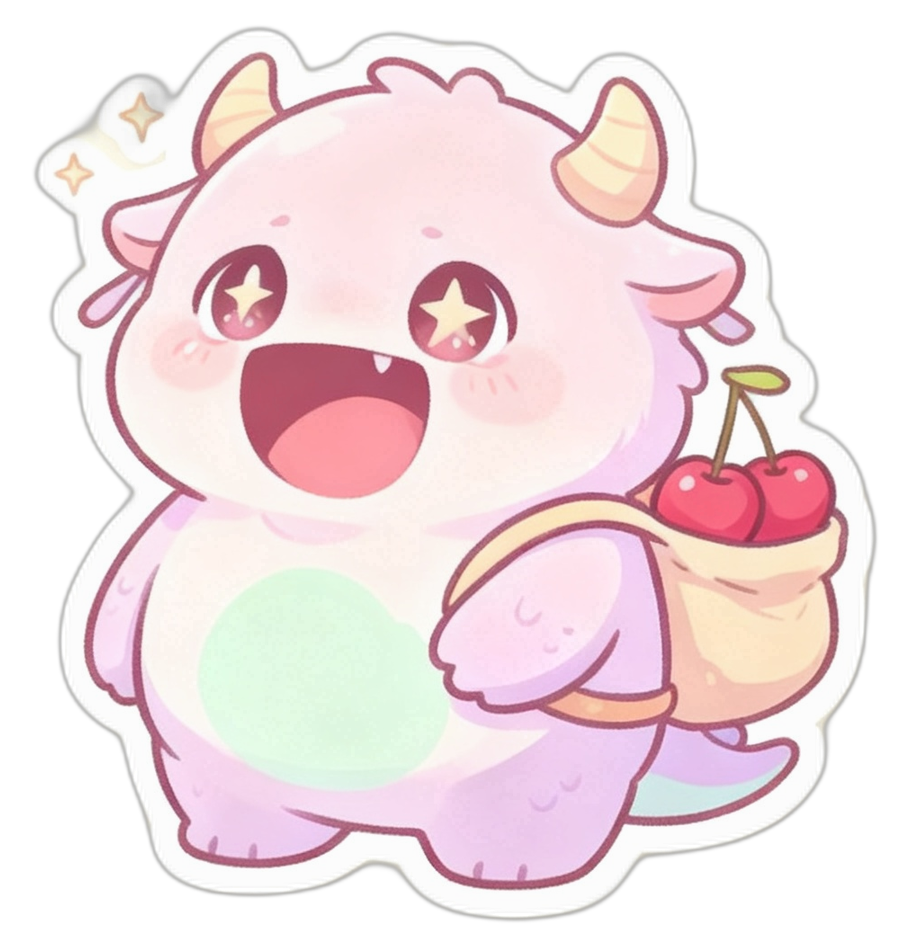
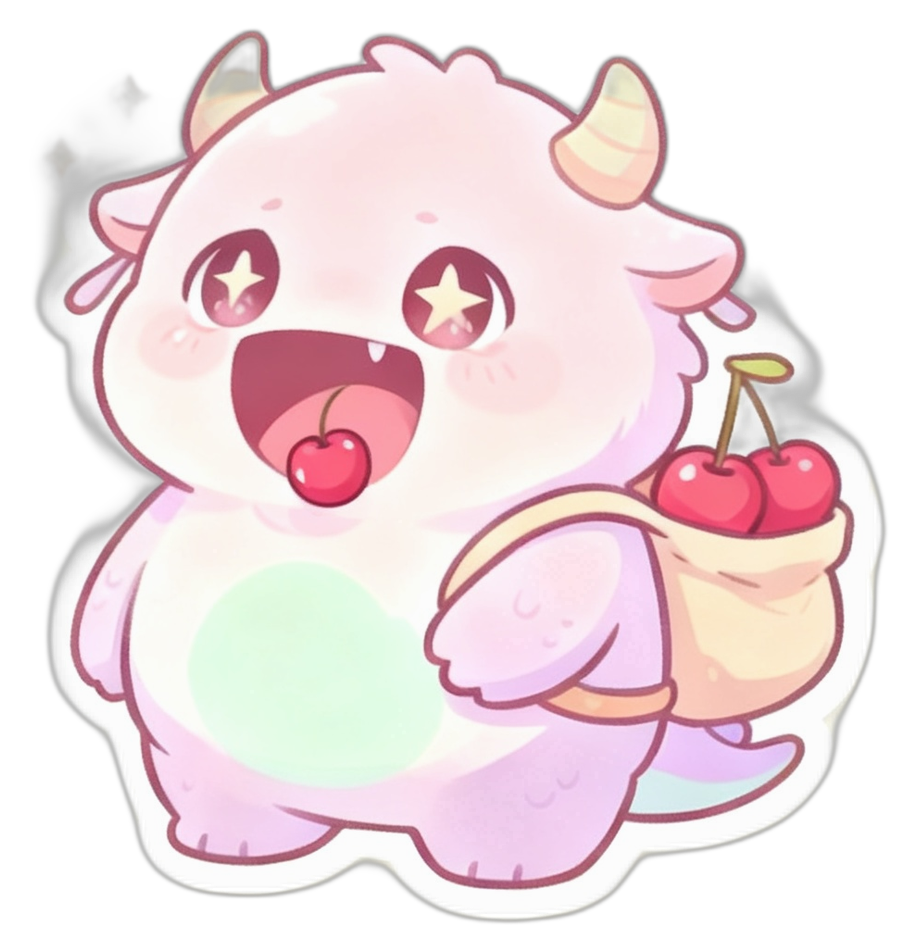
update pet assets, audio session controller, and related tests and documentation

Changed region(s): [[0.0307, 0.0306, 0.9835, 0.9789], [0.5225, 0.7954, 0.5532, 0.8259], [0.3074, 0.8259, 0.3381, 0.8565]]

diff --git a/design/ideas.html b/design/ideas.html
@@ -2245,7 +2245,7 @@
                 </div>
                 <h2 class="idea-title">用户宠物「背篓樱桃兽」：形象定稿与四态表情</h2>
               </div>
-              <span class="badge-status status-evaluating">形象已定 · 四态就绪 · 待命名</span>
+              <span class="badge-status status-evaluating">形象与樱桃规则已定 · 待命名</span>
             </div>
 
             <div class="tags-container">
@@ -2270,22 +2270,39 @@
                 • <strong>透明底成品</strong>：<code>design/ui/img/pet/pet_berry_{happy,sleepy,excited,sad}.png</code>，统一归一化为 <code>911×948</code>（角色等高 900、底边距 24、水平居中），所以四个状态原地切换时不会变大变小、也不会上下跳。抠图走既有流水线 <code>tools/pet_assets/cutout.py</code>（rembg u2net）。
               </div>
 
+              <div class="section-title">樱桃就是它的口粮，也是今日进度</div>
+              <div class="principle-box">
+                设定是<strong>它一天吃两个樱桃</strong>，于是数字自己闭环了：<br/>
+                • 学完那天攒到 <strong>3 颗</strong> → 它当天吃掉 2 颗 → <strong>第二天进来正好剩 1 颗</strong>；<br/>
+                • 开始学习 → <strong>2 颗</strong>；学完 → <strong>3 颗</strong>；<br/>
+                • 哪天断了就吃光：背篓空着、里面只剩它自己拣的几片蔫巴巴的菜叶，脸上也灰扑扑的（像哭了好几天没洗脸）。<br/>
+                这样背篓不需要任何数字标签，用户扫一眼就知道自己今天走到哪一步了。<br/>
+                <strong>待确认</strong>：断更之后重新开始学习，背篓是从 1 颗从头攒，还是按断更天数扣减——目前原型按「回到 1 颗」处理。<br/><br/>
+                <strong>实测边界：「袋里正好三颗」这个模型画不出来</strong>（2026-10-16，连试五轮）：<br/>
+                ① 只说「多放一颗」→ 第三颗被画到袋子外面；<br/>
+                ② 说「袋子被撑鼓、袋口张更开」→ 模型把袋子整体放大，角色比例与构图一起崩掉；<br/>
+                ③ 强调「袋子尺寸形状一律不变、只多放一颗」→ 它仍然只画两颗；<br/>
+                ④ 改用像素合成（把两颗里的右边那颗抠出来复制一颗贴上去）→ rembg 在这张图上抠不干净，樱桃与袋口交界处带出方形残影；<br/>
+                ⑤ 换「袋口最空」的那张（1 颗的打瞌睡版）当参考、同时改表情与数量 → 仍然两颗，而且朝向还漂了。<br/>
+                结论：<strong>这个模型在「袋口」这个构图上稳定输出两颗</strong>，加不进去第三颗。最终改用<strong>袋里 2 颗 + 嘴边 1 颗（它正准备吃掉这一颗）</strong>：既一眼看得出「多了一颗」（132px 真实尺寸下也看得见），又把「它一天吃两个」的设定演了出来。若将来仍要「袋里三颗」，可行路径是换一家生图模型或手工修图。
+              </div>
+
               <div class="section-title">四态表情（随今日学习状态切换）</div>
               <div class="feature-grid">
                 <div class="feature-item">
-                  <strong>还没开始 → 打瞌睡</strong>
+                  <strong>还没开始 → 打瞌睡（背篓 1 颗樱桃）</strong>
                   <p>站着闭眼、头顶飘几个半透明气泡。文案「它还在打瞌睡 / 今天还没开始，让它再眯一会儿」。</p>
                 </div>
                 <div class="feature-item">
-                  <strong>学习中 → 开心</strong>
+                  <strong>学习中 → 开心（背篓 2 颗樱桃）</strong>
                   <p>月牙笑眼加张嘴笑。文案「陪你把这两条走完 / 背篓里是今天攒下的樱桃」。</p>
                 </div>
                 <div class="feature-item">
-                  <strong>已完成 → 兴奋</strong>
+                  <strong>已完成 → 兴奋（袋里 2 颗 + 嘴边 1 颗）</strong>
                   <p>星星眼、大张嘴笑、头顶冒星星。文案「今天全走完了 / 背篓装满了，它高兴得冒星星」。</p>
                 </div>
                 <div class="feature-item">
-                  <strong>断更好几天 → 委屈</strong>
+                  <strong>断更好几天 → 委屈（背篓空了，换成蔫菜叶，脸上带脏）</strong>
                   <p>沿用原始形象那副委屈神情。文案「它等你好几天了 / 背篓里还是上次那两颗樱桃」。</p>
                 </div>
               </div>

diff --git a/design/ui/today_plan_track_scroll_preview.html b/design/ui/today_plan_track_scroll_preview.html
@@ -283,20 +283,21 @@
   .device-mockup[data-mood="excited"] .mood-excited,
   .device-mockup[data-mood="sad"] .mood-sad { opacity: 1; }
 
-  /* 文案跟着状态走：今天还没开始 / 正在学 / 学完 / 断更好几天 */
+  /* 文案跟着状态走。樱桃数量按「它一天吃两个」的设定：
+     学完攒到 3 颗 → 它吃掉 2 颗 → 第二天进来剩 1 颗；断了就吃光，只能拣菜叶。 */
   .mate-line b::after, .mate-line span::after { content: ""; }
 
   .device-mockup[data-mood="sleepy"] .mate-line b::after { content: "它还在打瞌睡"; }
-  .device-mockup[data-mood="sleepy"] .mate-line span::after { content: "今天还没开始，让它再眯一会儿"; }
+  .device-mockup[data-mood="sleepy"] .mate-line span::after { content: "背篓里只剩昨天那一颗樱桃"; }
 
   .device-mockup[data-mood="happy"] .mate-line b::after { content: "陪你把这两条走完"; }
-  .device-mockup[data-mood="happy"] .mate-line span::after { content: "背篓里是今天攒下的樱桃"; }
+  .device-mockup[data-mood="happy"] .mate-line span::after { content: "每往前走一点，就多攒一颗樱桃"; }
 
   .device-mockup[data-mood="excited"] .mate-line b::after { content: "今天全走完了"; }
-  .device-mockup[data-mood="excited"] .mate-line span::after { content: "背篓装满了，它高兴得冒星星"; }
+  .device-mockup[data-mood="excited"] .mate-line span::after { content: "攒够三颗，够它吃两天"; }
 
   .device-mockup[data-mood="sad"] .mate-line b::after { content: "它等你好几天了"; }
-  .device-mockup[data-mood="sad"] .mate-line span::after { content: "背篓里还是上次那两颗樱桃"; }
+  .device-mockup[data-mood="sad"] .mate-line span::after { content: "樱桃吃光了，只能拣点菜叶"; }
 
   .mate-line { padding-bottom: 32px; }
   .mate-line b { display: block; font-size: 13px; font-weight: 600; color: var(--ink); }
@@ -472,7 +473,8 @@
   <h3>宠物永远留位 + 底部毛玻璃渐隐</h3>
   <b>宠物区域是保留位</b>：固定 150 高，不参与滚动，无论轨道图多长都不会被挤掉。<b>轨道图在自己那块里滚</b>：它超出时底部盖一层 84 高的毛玻璃渐隐（模糊半径 7），提示下面还有内容；滚到底时这层自动淡出。<br><br>
   <h3>这里为什么是宠物、不再是借来的小馋怪</h3>
-  小馋怪是「从桥那头过来抢水果的对手」，摆在陪伴位是角色错位。这一个才是用户自己的宠物：粉紫底色、小牛角加垂耳、背着一个装着两颗樱桃的背篓、肚子上一块浅绿圆斑，表情有点委屈。素材沿用既有那条流水线：原始图 <code>assets/images/_unused/xiaochanguai_早期方向/xiaochanguai_背袋委屈_粉紫版.jpg</code>，经 <code>tools/pet_assets/cutout.py</code> 抠成透明底，四个状态分别是 <code>design/ui/img/pet/pet_berry_{happy,sleepy,excited,sad}.png</code>（统一归一化为 911×948：角色等高、底边对齐、水平居中，所以原地切换不会跳）。<br><br>
+  小馋怪是「从桥那头过来抢水果的对手」，摆在陪伴位是角色错位。这一个才是用户自己的宠物：粉紫底色、小牛角加垂耳、背着一个装着两颗樱桃的背篓、肚子上一块浅绿圆斑，表情随学习状态变。素材沿用既有那条流水线：原始图 <code>assets/images/_unused/xiaochanguai_早期方向/xiaochanguai_背袋委屈_粉紫版.jpg</code>，经 <code>tools/pet_assets/cutout.py</code> 抠成透明底，四个状态分别是 <code>design/ui/img/pet/pet_berry_{happy,sleepy,excited,sad}.png</code>（统一归一化为 917×950：角色等高 900、底边对齐、水平居中，所以原地切换不会跳）。<br/>
+  <b>背篓里的樱桃就是它的口粮，也是今日进度</b>：设定是它一天吃两个——学完那天攒到 3 颗，它吃掉 2 颗，第二天进来正好剩 1 颗；开始学变 2 颗，学完变 3 颗。哪天断了就吃光，背篓空着、只能拣几片蔫菜叶，脸上也灰扑扑的。<br><br>
   <h3>为什么模糊半径取 7</h3>
   按项目毛玻璃规范：12~16px 的正文，笔画只有 1~1.5px，模糊半径一旦到 14 以上就会被上千像素均化、直接蒸发成纯白。取 7 正好把节点文字晕成<b>朦胧的墨水色块</b>，既失去可读性、又还看得出"下面是节点"，这才像"还有内容"而不是"这里什么都没有"。<br><br>
   <h3>这一定位的字号说明了什么</h3>

diff --git a/app/test/sound_session_switch_test.dart b/app/test/sound_session_switch_test.dart
@@ -1,3 +1,5 @@
+import 'dart:io';
+
 import 'package:flutter/services.dart';
 import 'package:flutter_test/flutter_test.dart';
 import 'package:just_audio/just_audio.dart' as ja;
@@ -388,6 +390,32 @@ void main() {
 
       // word1 与 word2 已被代际取消，直接跳过不执行，只执行最新点击的 word3
       expect(executionOrder, ['word3']);
+    });
+  });
+
+  // ============================================================
+  // 会话激活卡死：原生 setActive 迟迟不返回时，绝不能让状态机永久瘫痪
+  // ============================================================
+  group('会话激活超时熔断（静态验证）', () {
+    test('控制器里不存在裸调 setActive 的地方', () async {
+      // 单测跑在 macOS 上，audio_session 插件在这条分支上直接 return true、根本不走原生通道，
+      // 所以"卡住的 setActive"在单测里造不出来，只能用源码闸门守住这条规矩：
+      // 这个原生调用被 await 时正持有会话锁与状态机锁，一旦没有超时，
+      // 之后每一次会话切换、播放、stopSession 都永久排队 ——
+      // 用户侧就是"模式切换中…"的浮层永远转圈、发音永久不出声，只能杀进程重进。
+      final source = await File('lib/util/study_audio_session_controller.dart').readAsString();
+
+      final bareSetActive =
+          RegExp(r'session\.setActive\([^)]*\)\s*;').allMatches(source).length;
+      expect(bareSetActive, 0, reason: '不许裸调 setActive：它没有超时，会永久占住状态机锁');
+
+      expect(source.contains('setActive(true).timeout('), isTrue,
+          reason: '唯一的激活入口 _activateSession() 必须带超时');
+
+      final viaActivateSession =
+          RegExp(r'await _activateSession\(\)').allMatches(source).length;
+      expect(viaActivateSession, 2,
+          reason: 'playback 与 playAndRecord 两条会话路径都必须走 _activateSession()，保持对称');
     });
   });
 }

diff --git a/app/lib/util/study_audio_session_controller.dart b/app/lib/util/study_audio_session_controller.dart
@@ -822,7 +822,12 @@ class StudyAudioSessionController {
         androidAudioFocusGainType: AndroidAudioFocusGainType.gain,
         androidWillPauseWhenDucked: true,
       )).timeout(const Duration(milliseconds: 1000));
-      await session.setActive(true);
+      // 必须走带超时的公共激活入口，不能裸调 setActive(true)：
+      // 这个原生调用在音频会话被抢占（来电、其它 App 占着扬声器、蓝牙切换）时可能长时间不返回，
+      // 而它是在持有 _sessionLock / _stateTransitionLock / _queueLock 的状态机里被 await 的 ——
+      // 一旦挂住，之后每一次会话切换、播放、stopSession 都永久排队，
+      // 用户看到的是"模式切换中..."的浮层永远转圈、发音永久不出声，只能杀进程重进。
+      await _activateSession();
       _currentSessionCategory = 'playback';
       debugPrint('⏱ [Latency-Sound] Session 切换到 playback 完成，耗时: ${totalSw.elapsedMilliseconds}ms');
       _logAudioState('会话切换完成(→playback ${totalSw.elapsedMilliseconds}ms)');
@@ -1349,7 +1354,10 @@ class StudyAudioSessionController {
     try {
       const assetPath = 'assets/audio/asr_ready_hint.wav';
       if (_playerLoadedAsset[player] != assetPath) {
-        await player.setAsset(assetPath);
+        // 这一步是文件 IO + 解码，同样不能无限等：本方法被 await 在持有状态机锁的
+        // transitTo(record) 里，卡住的效果与 setActive 卡住完全一样（整机状态机瘫痪）。
+        // 超时只会让这一声"叮"不响（下面有 catch），不会拖死后续所有模式切换。
+        await player.setAsset(assetPath).timeout(const Duration(seconds: 2));
         _playerLoadedAsset[player] = assetPath;
       }
       _activeVolumeToken[player] = Object();

diff --git a/doc/glossary.md b/doc/glossary.md
@@ -385,7 +385,7 @@
 | 清空本地数据重建 | 客户端 `showRebuildDatabaseDialog`（`app/lib/widget/rebuild_database_dialog.dart`） | 先把数据备份到云端，再清空本地库，然后回登录页重新登录 | 用户口中的「清空本地数据」就是它；界面上标题是「确认重建数据库」，需要二次确认 |
 | 小馋怪 | 素材 `assets/images/monster/`（正式素材是「橙黄双叶版」，透明底成品在同目录 `cutout/`）；走路循环的做法见 `.agents/skills/sprite-walk-animation/` | 打哭小馋怪里的对手：它从桥那头过来抢水果，答对就被打退、答错水果被抢走 | 首页角色化的主角（见 `design/ideas.html` 的 UI #002）。它与「记忆守护兽」是两个完全不同的角色，不要混着叫 |
 | 记忆守护兽 | 客户端 `GuardianPet`（`app/lib/widget/guardian_pet.dart`），三层素材在 `app/assets/images/pet/`（身体层 + 表情层 + 光核层），表情图 `pet/moods/mood_*.png` | 绿色凝胶质感的陪伴形象，目前只在学习结算页（`app/lib/page/finish.dart`）出现 | 与上一条的「小馋怪」不是一回事，不要混用 |
-| 用户宠物 | 形象素材 `design/ui/img/pet/pet_berry_{happy,sleepy,excited,sad}.png`（四态，统一 911×948）；原始图 `assets/images/_unused/xiaochanguai_早期方向/xiaochanguai_背袋委屈_粉紫版.jpg` | 首页底部陪伴位里的那只角色：粉紫渐变身体、小牛角加垂耳、背着一个装着两颗樱桃的米色布袋、肚子上有浅绿圆斑 | **正式名称待定**，暂按「宠物」指代。它与「小馋怪」是两个角色：小馋怪是抢水果的对手，宠物是用户自己的陪伴 |
+| 用户宠物 | 形象素材 `design/ui/img/pet/pet_berry_{happy,sleepy,excited,sad}.png`（四态，统一 911×948）；原始图 `assets/images/_unused/xiaochanguai_早期方向/xiaochanguai_背袋委屈_粉紫版.jpg` | 首页底部陪伴位里的那只角色：粉紫渐变身体、小牛角加垂耳、背着一个装着两颗樱桃的米色布袋、肚子上有浅绿圆斑 | **正式名称待定**，暂按「宠物」指代。它与「小馋怪」是两个角色：小馋怪是抢水果的对手，宠物是用户自己的陪伴。背篓里的樱桃数量就是今日进度（它一天吃两个：学完那天攒到 3 颗后吃掉 2 颗，第二天进来剩 1 颗；开始学 2 颗；**完成时是袋里 2 颗 + 嘴边 1 颗**——第三颗模型画不进袋口，实测边界见 `design/ideas.html` 的 UI #003；断更则空篓只剩菜叶） |
 
 ### 4.8 客户端设置与系统权限
 
